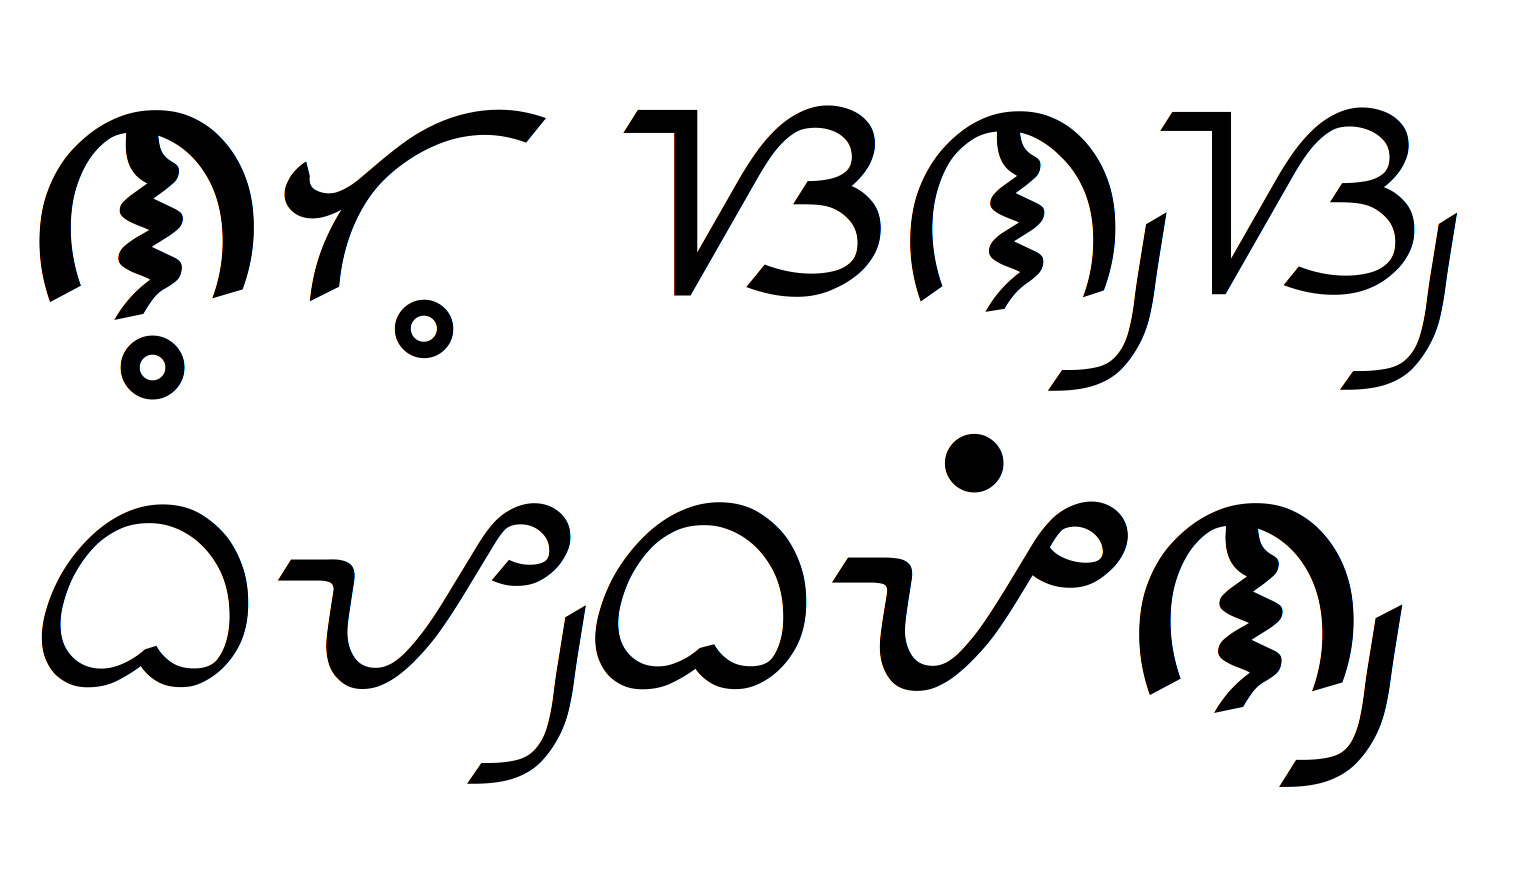
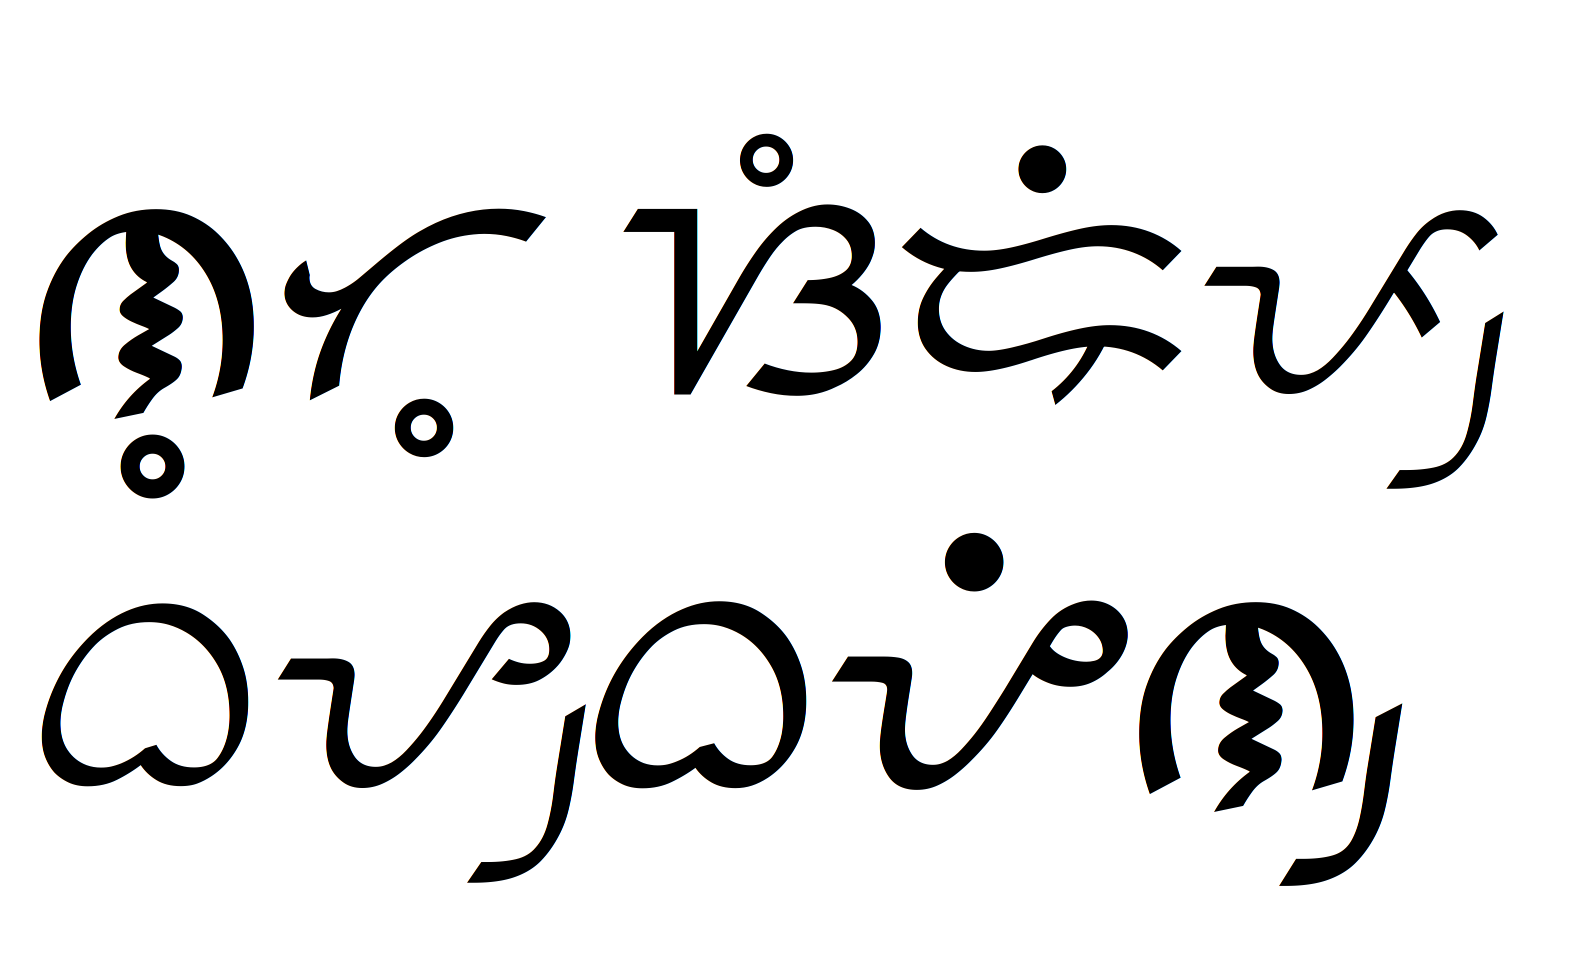
ᜐᜈ᜴ᜐ᜴ → ᜐᜒᜍᜒᜉ᜕

Changed region(s): [[0.0, 0.4848, 0.9228, 0.9091], [0.3999, 0.1212, 0.9535, 0.5152], [0.0, 0.1212, 0.3691, 0.5152]]

diff --git a/specimen.html b/specimen.html
@@ -13,7 +13,7 @@
 <body>
 <div style="width: 844px">
     <h1>
-        <span style="font-variation-settings: 'wght' 700;">&#x1708;&#x1713;&#xFE00;</span><span style="font-variation-settings: 'wght' 625;">&#x1706;&#x1713;&#xFE00;</span> <span style="font-variation-settings: 'wght' 550;">&#x1710;</span><span style="font-variation-settings: 'wght' 475;">&#x1708;&#x1715;</span><span style="font-variation-settings: 'wght' 400;">&#x1710;&#x1715;</span>
+        <span style="font-variation-settings: 'wght' 700;">&#x1708;&#x1713;&#xFE00;</span><span style="font-variation-settings: 'wght' 625;">&#x1706;&#x1713;&#xFE00;</span> <span style="font-variation-settings: 'wght' 550;">&#x1710;&#x1712;&#xFE00;</span><span style="font-variation-settings: 'wght' 475;">&#x170D;&#x1712;</span><span style="font-variation-settings: 'wght' 400;">&#x1709;&#x1715;</span>
         <br/>
         <span style="font-variation-settings: 'wght' 400;">&#x170A;</span><span style="font-variation-settings: 'wght' 475;">&#x170C;&#x1715;</span><span style="font-variation-settings: 'wght' 550;">&#x170A;</span><span style="font-variation-settings: 'wght' 625;">&#x170C;&#x1712;</span><span style="font-variation-settings: 'wght' 700;">&#x1708;&#x1715;</span>
     </h1>
